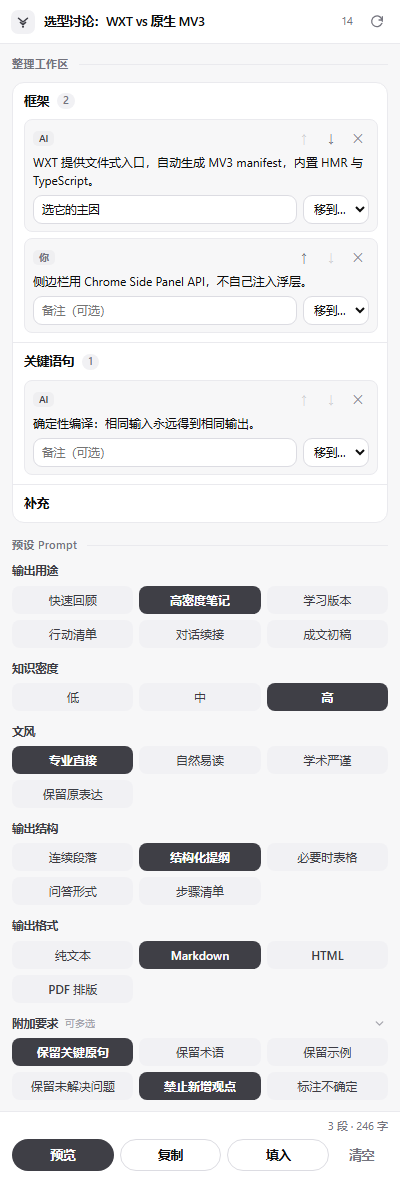
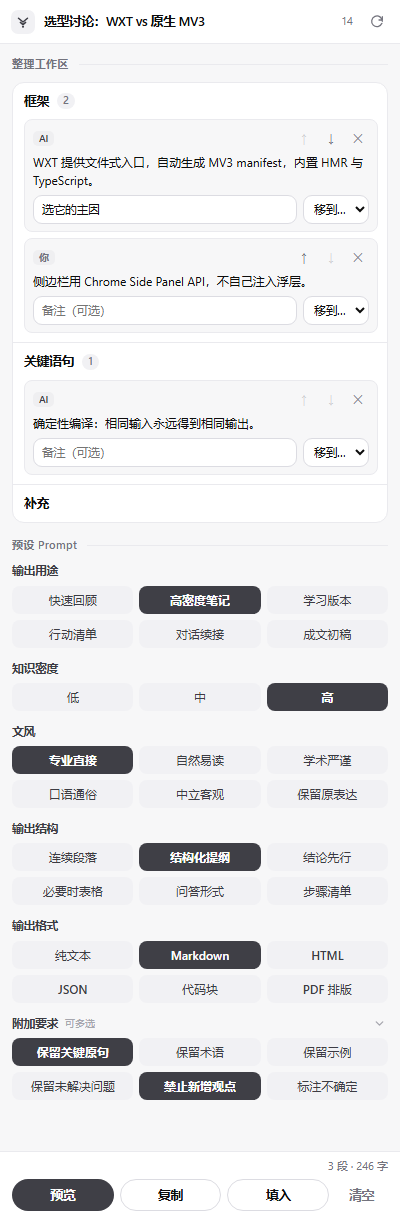
feat: fuller preset rows, general collapse, a11y + store prep
- Fill single-select categories to full rows: 文风 +口语通俗/中立客观 (6),
  输出结构 +结论先行 (6), 输出格式 +JSON/代码块 (6). No more ragged single-item rows.
- Generalize the collapse: any category taller than two rows gets the quiet
  chevron (not just 附加要求), future-proofing new options.
- Accessibility: aria-labels on icon-only controls (refresh, chevron, move/
  delete, chip delete, new-module cancel) and the target <select>; drop dead
  .group-active CSS.
- Chrome Web Store prep: shorten manifest description to <=132 chars (store cap),
  add docs/STORE.md (account, packaging, listing, privacy/permission
  justifications, required repo changes), add `pnpm zip` to README.
- Screenshots: replace with a composite showing the panel docked beside a
  ChatGPT conversation (so it reads as a ChatGPT companion) + a right-sized
  workspace/presets closeup; README image layout updated.

diff --git a/entrypoints/sidepanel/components/PresetBar.tsx b/entrypoints/sidepanel/components/PresetBar.tsx
@@ -21,8 +21,8 @@ const SINGLE_KEYS: Record<string, SingleKey> = {
   outputFormat: 'outputFormat',
 };
 
-/** Collapsed 附加要求 shows this many built-in chips (2 rows in the 3-col grid). */
-const EXTRAS_COLLAPSED = 6;
+/** A collapsible category shows this many chips when collapsed (2 rows, 3-col). */
+const COLLAPSED_CHIPS = 6;
 
 function Chevron({ open }: { open: boolean }) {
   return (
@@ -55,7 +55,16 @@ export function PresetBar({
   // editing: null = closed, 'new' = adding, otherwise the id being edited.
   const [editing, setEditing] = useState<string | null>(null);
   const [draft, setDraft] = useState('');
-  const [extrasOpen, setExtrasOpen] = useState(false);
+  // Which categories are expanded past two rows (by group id).
+  const [openGroups, setOpenGroups] = useState<Set<string>>(() => new Set());
+
+  function toggleOpen(id: string) {
+    setOpenGroups((prev) => {
+      const next = new Set(prev);
+      next.has(id) ? next.delete(id) : next.add(id);
+      return next;
+    });
+  }
 
   function openNew() {
     setEditing('new');
@@ -87,20 +96,25 @@ export function PresetBar({
       {PRESET_GROUPS.map((group) => {
         const singleKey = SINGLE_KEYS[group.id];
         const isExtras = group.id === 'extras';
-        // Extras can get long; collapse to two rows unless expanded or editing.
-        const showAll = !isExtras || extrasOpen || editing !== null;
+        // Collapse any category taller than two rows. Extras also counts its
+        // custom chips + the add button toward the total.
+        const totalCount = group.options.length + (isExtras ? customExtras.length + 1 : 0);
+        const collapsible = totalCount > COLLAPSED_CHIPS;
+        const showAll =
+          !collapsible || openGroups.has(group.id) || (isExtras && editing !== null);
         const builtins =
-          isExtras && !showAll ? group.options.slice(0, EXTRAS_COLLAPSED) : group.options;
+          collapsible && !showAll ? group.options.slice(0, COLLAPSED_CHIPS) : group.options;
         return (
           <div key={group.id} className="preset-group">
             <div className="preset-label">
               {group.label}
               {group.mode === 'multi' && <span className="preset-multi">可多选</span>}
-              {isExtras && (
+              {collapsible && (
                 <button
                   className="collapse-btn"
-                  onClick={() => setExtrasOpen((o) => !o)}
-                  title={showAll ? '收起' : '展开更多附加要求（含自定义）'}
+                  onClick={() => toggleOpen(group.id)}
+                  title={showAll ? '收起' : '展开全部'}
+                  aria-label={showAll ? '收起' : '展开全部'}
                   aria-expanded={showAll}
                 >
                   <Chevron open={showAll} />
@@ -148,6 +162,7 @@ export function PresetBar({
                       <button
                         className="chip-x"
                         title="删除这条自定义要求"
+                        aria-label={`删除自定义要求：${option.name}`}
                         onClick={() => {
                           if (editing === option.id) close();
                           onRemoveCustom(option.id);

diff --git a/lib/core/presets.ts b/lib/core/presets.ts
@@ -134,6 +134,22 @@ export const STYLE_PRESETS: PresetOption[] = [
     text: '语言风格为学术、严谨：用词准确规范，谨慎下结论，必要时说明前提、范围与限定条件。',
   },
   {
+    id: 'style.plain',
+    name: '口语通俗',
+    group: 'writingStyle',
+    version: 1,
+    hint: '像聊天，少术语',
+    text: '语言风格为口语、通俗：像跟人聊天一样自然，少用书面语，必要时把专业术语解释成大白话。',
+  },
+  {
+    id: 'style.neutral',
+    name: '中立客观',
+    group: 'writingStyle',
+    version: 1,
+    hint: '只陈述，不带倾向',
+    text: '语言风格为中立、客观：只陈述事实与各方观点，不加入个人倾向、评价或情绪化措辞。',
+  },
+  {
     id: 'style.preserve-original',
     name: '保留原表达',
     group: 'writingStyle',
@@ -163,6 +179,14 @@ export const STRUCTURE_PRESETS: PresetOption[] = [
     version: 1,
     hint: '层级化要点',
     text: '请以结构化提纲输出，用带层级的要点组织内容，突出条目之间的从属关系。',
+  },
+  {
+    id: 'structure.bluf',
+    name: '结论先行',
+    group: 'responseStructure',
+    version: 1,
+    hint: '先给结论，再展开',
+    text: '请采用结论先行（BLUF）结构：开头先给出最重要的结论或结果，再展开理由、依据与细节。',
   },
   {
     id: 'structure.tables-when-needed',
@@ -219,6 +243,22 @@ export const FORMAT_PRESETS: PresetOption[] = [
     version: 1,
     hint: '输出完整 HTML 代码',
     text: '请输出为完整的 HTML 代码（含基本结构，可直接保存为 .html 文件打开）。',
+  },
+  {
+    id: 'format.json',
+    name: 'JSON',
+    group: 'outputFormat',
+    version: 1,
+    hint: '结构化、可被程序解析',
+    text: '请输出为合法的 JSON：字段语义明确、结构清晰，可被程序直接解析。',
+  },
+  {
+    id: 'format.codeblock',
+    name: '代码块',
+    group: 'outputFormat',
+    version: 1,
+    hint: '整段用代码块包裹',
+    text: '请把最终内容整体放进一个代码块（```）里，方便一次性复制。',
   },
   {
     id: 'format.pdf',

diff --git a/entrypoints/sidepanel/components/GroupBoard.tsx b/entrypoints/sidepanel/components/GroupBoard.tsx
@@ -41,6 +41,7 @@ export function GroupBoard({
                   <button
                     className="icon-btn xs danger-hover"
                     title={group.persist ? '删除这个模块（长期模块，一并从记忆里移除）' : '删除这个空模块'}
+                    aria-label={`删除模块：${group.title}`}
                     onClick={() => onRemoveGroup(group.id)}
                   >
                     ✕
@@ -62,6 +63,7 @@ export function GroupBoard({
                           disabled={index === 0}
                           onClick={() => onMove(group.id, fragment.id, -1)}
                           title="上移"
+                          aria-label="上移片段"
                         >
                           ↑
                         </button>
@@ -70,6 +72,7 @@ export function GroupBoard({
                           disabled={index === group.fragments.length - 1}
                           onClick={() => onMove(group.id, fragment.id, 1)}
                           title="下移"
+                          aria-label="下移片段"
                         >
                           ↓
                         </button>
@@ -77,6 +80,7 @@ export function GroupBoard({
                           className="icon-btn xs danger-hover"
                           onClick={() => onRemove(group.id, fragment.id)}
                           title="删除"
+                          aria-label="删除片段"
                         >
                           ✕
                         </button>

diff --git a/wxt.config.ts b/wxt.config.ts
@@ -9,8 +9,9 @@ export default defineConfig({
   manifest: {
     name: 'Context Distiller',
     // Keep in sync with package.json; WXT reads the version from package.json.
+    // NB: Chrome Web Store caps manifest `description` at 132 characters.
     description:
-      'A temporary material-selection + Prompt-compilation workbench beside AI chats. MVP: ChatGPT. No model API, no server, no persistence, never auto-sends.',
+      'Pick, group and compile ChatGPT snippets into one plain-text prompt. Local-only: no server, no tracking, never auto-sends.',
     // storage: only for the user's own long-term modules / custom requirements
     // (config), never conversation data.
     permissions: ['sidePanel', 'scripting', 'storage'],

diff --git a/entrypoints/sidepanel/components/MessageList.tsx b/entrypoints/sidepanel/components/MessageList.tsx
@@ -144,6 +144,7 @@ export function MessageList({
           <span className="target-cap">加入到</span>
           <select
             className="input target-select"
+            aria-label="选择加入目标模块"
             value={activeGroupId}
             onChange={(e) => {
               if (e.target.value === NEW_MODULE) setCreating(true);
@@ -210,6 +211,7 @@ export function MessageList({
               setCreating(false);
             }}
             title="取消"
+            aria-label="取消新建模块"
           >
             ✕
           </button>

diff --git a/entrypoints/sidepanel/App.tsx b/entrypoints/sidepanel/App.tsx
@@ -189,6 +189,7 @@ export function App() {
         <button
           className="icon-btn topbar-refresh"
           title="读取 / 刷新当前对话"
+          aria-label="读取或刷新当前对话"
           onClick={() => handleLoad()}
         >
           {state.status === 'loading' ? (

diff --git a/entrypoints/sidepanel/styles.css b/entrypoints/sidepanel/styles.css
@@ -556,10 +556,6 @@ textarea:focus,
 .group:not(:first-child) {
   border-top: 1px solid var(--line);
 }
-.group-active {
-  background: var(--accent-weak);
-  box-shadow: inset 2px 0 0 var(--accent);
-}
 .group-head {
   display: flex;
   align-items: center;

diff --git a/docs/STORE.md b/docs/STORE.md
@@ -1,0 +1,80 @@
+# 上架 Chrome 应用商店（Chrome Web Store）清单
+
+这份清单覆盖发布 Context Distiller 到 Chrome 应用商店需要的**手续**、**要准备的素材**、
+以及**代码里要改 / 要注意的地方**。Edge 商店流程类似，附在最后。
+
+## 0. 前置手续
+
+- **注册开发者账号**：<https://chrome.google.com/webstore/devconsole> 用 Google 账号登录，
+  一次性缴 **US$5** 注册费（一个账号可发多个扩展）。
+- 首次发布可能要求**验证身份 / 联系邮箱**，并声明是否为「交易商户」（本扩展不收费，选否）。
+
+## 1. 打包
+
+```bash
+pnpm zip            # 产出 .output/context-distiller-<version>-chrome.zip
+```
+
+上传的是这个 zip（WXT 已按 MV3 规范打包，含 manifest、图标、脚本，无源码/node_modules）。
+
+## 2. 商店列表要填的素材
+
+| 字段 | 内容 / 规格 |
+| --- | --- |
+| 名称 | Context Distiller（≤ 45 字符） |
+| 简短描述 | ≤ 132 字符，已与 manifest `description` 一致 |
+| 详细描述 | 用途、边界（不调模型/不上传/不自动发送）、隐私、用法；建议中英各一版 |
+| 图标 | 128×128（已在 `public/icon/128.png`） |
+| 截图 | **1–5 张，1280×800 或 640×400 PNG/JPG**（`docs/screenshots/` 里的图需按此尺寸重导，见下） |
+| 小宣传图（可选） | 440×280 |
+| 分类 | Productivity（生产力） |
+| 语言 | 简体中文（可加 English） |
+| 官网/支持 URL | 一个**公开**可访问的链接（GitHub 仓库公开后填，或单独建页） |
+
+> 截图尺寸：现有 `messages.png`（1180×760）/`workspace.png`（400×1220）是给 README 用的，
+> **不符合商店的 1280×800**。上架时需另导一版 1280×800（把面板放在 1280×800 画布里居中/留白即可）。
+
+## 3. 隐私与权限（审核重点）
+
+商店会逐条看权限，需在开发者后台的「隐私」页填**用途说明**：
+
+- `sidePanel`：在 ChatGPT 页面旁展示工作台侧边栏。
+- `scripting`：向页面主世界注入一个只读脚本，读取当前对话的内部数据（代码块更准）。
+- `storage`：**仅**保存用户自己的长期配置（自定义模块名 / 自定义要求文本），不含对话内容。
+- host `*://chatgpt.com/*`、`*://chat.openai.com/*`：只在 ChatGPT 页运行、读取当前对话、回填输入框。
+
+**数据用途声明**（Data usage）：勾选
+- 不出售/不转移用户数据；
+- 不用于与核心功能无关的用途；
+- 不收集：本扩展**不向任何服务器发送数据**，只在本地内存 + 本地 `chrome.storage` 处理。
+
+**隐私政策 URL（必填其一情形）**：因为声明了 host 权限并读取页面内容，商店通常要求一个
+**公开的隐私政策链接**。可选方案：
+1. 把仓库设为公开，填 `docs/PRIVACY.md` 的公开链接；
+2. 或用 GitHub Pages / Gist 单独挂一份 `PRIVACY`；
+3. 或任意静态托管。内容直接用 `docs/PRIVACY.md`。
+
+## 4. 代码 / 仓库里要改或确认的点
+
+- [x] `manifest.description` 已压到 ≤ 132 字符（否则会被拒）。
+- [x] 权限最小：`sidePanel` / `scripting` / `storage` + 指定 host，无 `<all_urls>`、无 `tabs`。
+- [x] 无远程代码：所有 JS 随包发布，无 `eval`、无外链 `<script>`（MV3 合规）。
+- [ ] **官网/隐私链接需公开**：仓库当前是**私有**，上架前把仓库公开，或另挂隐私政策。
+- [ ] 另导 **1280×800** 商店截图（README 那两张尺寸不合规）。
+- [ ] 确认 `version`（`package.json` 的 `0.1.0`）符合预期；每次更新需**递增版本号**再传。
+- [ ] （可选）加 `homepage_url` 指向公开仓库；私有期间先不加以免 404。
+- [ ] 单一用途说明（Single purpose）：一句话——「把用户在 ChatGPT 挑选的对话片段编译成一段纯文本 Prompt」。
+
+## 5. 提交流程
+
+1. `pnpm zip` → 得到 zip。
+2. 开发者后台 → 「新增项目」→ 上传 zip。
+3. 填列表素材（第 2 节）+ 隐私/权限用途（第 3 节）。
+4. 提交审核。首次审核通常几天;含较宽 host 权限或「读取页面内容」可能被人工复核，
+   如实说明用途即可。
+5. 通过后可选「立即发布」或「灰度发布」。
+
+## 6. Edge 加载项商店（可选）
+
+流程类似：<https://partner.microsoft.com/dashboard/microsoftedge>，开发者账号**免费**，
+同一个 MV3 zip 可直接传（`pnpm build:edge` / `pnpm zip` 亦可）。素材与隐私要求与 Chrome 基本一致。
